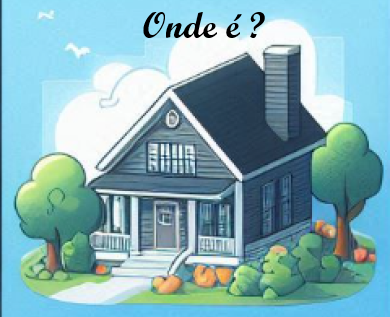
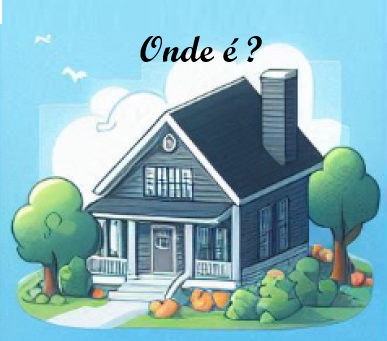
Fix: Correção de responsividade

diff --git a/lib/pages/home_page.dart b/lib/pages/home_page.dart
@@ -18,6 +18,7 @@ class HomePage extends StatelessWidget {
             child: Image.asset(
               AppImages.onde,
               fit: BoxFit.fitWidth,
+              
             ),
           ),
            const SingleChildScrollView(
@@ -27,7 +28,7 @@ class HomePage extends StatelessWidget {
                   height: 310,
                 ),
                 Padding(
-                  padding: EdgeInsets.all(16.0),
+                  padding: EdgeInsets.only(left: 10, right: 10, top: 35),
                   child: Quadrocep(),
                 ),
               ],
